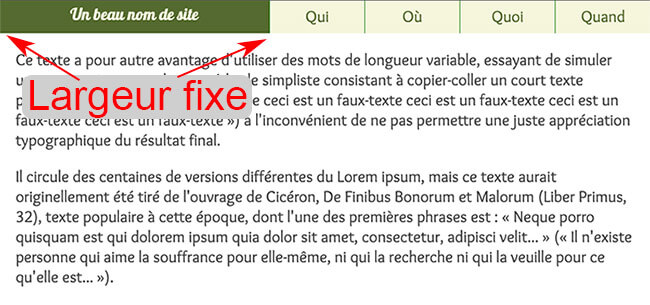
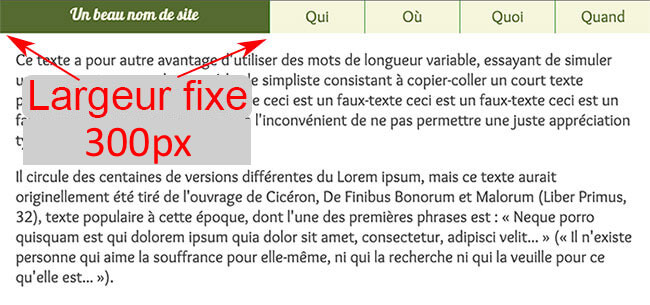
Lecon 9 - v10

Changed region(s): [[0.0308, 0.3836, 0.4, 0.5607]]

diff --git a/integration1/lecon09.html b/integration1/lecon09.html
@@ -165,13 +165,13 @@
           </div>
           <hr>
           <h3 id="defi-1">DÉFI 1 / Navigation principale fluide + premier lien à largeur fixe</h3>
-          <p>À partir du <em>pen</em> ci-dessous:</p>
+          
            <p class="codepen" data-height="300" data-default-tab="css,result" data-slug-hash="gbPXKjw" data-pen-title="c09-defi1_fixe-fluide" data-editable="true" data-user="frlacroix" style="height: 300px; box-sizing: border-box; display: flex; align-items: center; justify-content: center; border: 2px solid; margin: 1em 0; padding: 1em;">
           <span>See the Pen <a href="https://codepen.io/frlacroix/pen/gbPXKjw">
           c09-defi1_fixe-fluide</a> by Frédéric Lacroix (<a href="https://codepen.io/frlacroix">@frlacroix</a>)
           on <a href="https://codepen.io">CodePen</a>.</span>
         </p>
-          <br><ol style="margin-bottom:0; ">
+          <br><p>À partir du <em>pen</em> ci-dessus:</p><ol style="margin-bottom:0; ">
             <li>À l'aide de la requête média, faites en sorte que <strong>la largeur du lien <em>Un beau nom de site</em> soit fixe à 300px sur écran large</strong> (point de rupture >500px).</li> 
             <li>Les quatre autres liens doivent se retrouver sur la même ligne que le premier lien et conserver une largeur fluide (%).</li>
           </ol>
@@ -192,13 +192,13 @@
           
           <hr>
           <h3 id="defi-2">DÉFI 2 / Image flottante</h3>
-          <p>À partir du <em>pen ci-dessous</em>:</p>
+          
           <p class="codepen" data-height="465" data-default-tab="result" data-slug-hash="NPxwzOa" data-pen-title="Défi 2 - Image flottante" data-editable="true" data-user="frlacroix" style="height: 465px; box-sizing: border-box; display: flex; align-items: center; justify-content: center; border: 2px solid; margin: 1em 0; padding: 1em;">
             <span>See the Pen <a href="https://codepen.io/frlacroix/pen/NPxwzOa">
             Défi 2 - Image flottante</a> by Frédéric Lacroix (<a href="https://codepen.io/frlacroix">@frlacroix</a>)
             on <a href="https://codepen.io">CodePen</a>.</span>
           </p>
-          <br><ol style="margin-bottom:0; ">
+          <br><p>À partir du <em>pen ci-dessus</em>:</p><ol style="margin-bottom:0; ">
             <li>Effectuez la mise en forme de la légende en la liant graphiquement à l'image (voir exemple en classe).</li>
             <li>Donnez une <strong>couleur d'arrière-plan</strong> au contenu principal et une autre au pied de page.</li>
             <li>Le contenu principal et le contenu du pied de page doivent avoir une <strong>largeur maximale de 700px</strong>, tout en faisant en sorte que les couleurs d'arrière-plan demeurent pleine largeur.</li>
@@ -225,14 +225,14 @@
           
           <hr>
           <h3 id="defi-3">DÉFI 3 / Images réactives avec cadrages différents</h3>
-          <p>À partir du <em>pen</em> ci-dessous:</p>
+          
           <p class="codepen" data-height="375" data-default-tab="result" data-slug-hash="RNrxWxg" data-pen-title="Défi 3 - Images réactives avec cadrages différents" data-editable="true" data-user="frlacroix" style="height: 375px; box-sizing: border-box; display: flex; align-items: center; justify-content: center; border: 2px solid; margin: 1em 0; padding: 1em;">
   <span>See the Pen <a href="https://codepen.io/frlacroix/pen/RNrxWxg">
   Défi 3 - Images réactives avec cadrages différents</a> by Frédéric Lacroix (<a href="https://codepen.io/frlacroix">@frlacroix</a>)
   on <a href="https://codepen.io">CodePen</a>.</span>
 </p>
 <script async src="https://public.codepenassets.com/embed/index.js"></script><br>
-          <ol style="margin-bottom:0; ">
+          <p>À partir du <em>pen</em> ci-dessus:</p><ol style="margin-bottom:0; ">
             <li>Assurez-vous que <strong>l'image est fluide et prenne toute la largeur de la fenêtre</strong> du navigateur, mais sans déborder.</li>
             <li>Rendez <strong>l'image réactive en modifiant le balisage HTML</strong>: ajoutez une deuxième source d'image et rendez l'affichage des deux sources conditionnelle à la largeur de la fenêtre du navigateur.</li>
             <li><strong>Utilisez le seuil de 400px</strong> comme point de bascule entre les deux images.</li>
@@ -250,14 +250,14 @@
           
           <hr>
           <h3 id="defi-4">DÉFI 4 / Sous-menu superposé et centré avec flexbox</h3>
-          <p>À partir du <em>pen</em> ci-dessous:</p>
+          
           <p class="codepen" data-height="460" data-default-tab="result" data-slug-hash="bNEaVOm" data-pen-title="c09-menu-superposé-centré-départ" data-editable="true" data-user="frlacroix" style="height: 460px; box-sizing: border-box; display: flex; align-items: center; justify-content: center; border: 2px solid; margin: 1em 0; padding: 1em;">
   <span>See the Pen <a href="https://codepen.io/frlacroix/pen/bNEaVOm">
   c09-menu-superposé-centré-départ</a> by Frédéric Lacroix (<a href="https://codepen.io/frlacroix">@frlacroix</a>)
   on <a href="https://codepen.io">CodePen</a>.</span>
 </p>
 <script async src="https://public.codepenassets.com/embed/index.js"></script>
-<br>
+<br><p>À partir du <em>pen</em> ci-dessus:</p>
           <ol>
             <li>Insérez le code de l'élément picture du pen précédent (Challenge 3) avec l'image réactive complétée.</li>
             <li>Positionnez le titre principal devant la bannière
@@ -268,11 +268,11 @@
           </ol>
           <div class="row">
             <div class="col">
-              <figure class="w30">
+              <figure class="">
             <figcaption>Résultat final du Challenge 4 - Version étroite</figcaption>
             <img class="bordure" src="images/cours09/cours09_codepen-challenge04a.jpg" alt="Challenge 4.">
           </figure></div>
-            <div class="col"><figure class="w60">
+            <div class="col"><figure class="">
             <figcaption>Résultat final du Challenge 4 - Version large</figcaption>
             <img class="bordure" src="images/cours09/cours09_codepen-challenge04b.jpg" alt="Challenge 4.">
           </figure></div>
@@ -281,23 +281,32 @@
           
           <hr>
           <h3 id="defi-5">DÉFI 5 / Tableau avec mise en forme alternée et effet au survol</h3>
-          <p>À partir du <em>pen ci-dessous</em>:</p>
+          <p class="codepen" data-height="365" data-default-tab="result" data-slug-hash="dPGmeqR" data-pen-title="Défi 5 - Tableau avec mise en forme alternée et effet au survol" data-editable="true" data-user="frlacroix" style="height: 3px; box-sizing: border-box; display: flex; align-items: center; justify-content: center; border: 2px solid; margin: 1em 0; padding: 1em;">
+  <span>See the Pen <a href="https://codepen.io/frlacroix/pen/dPGmeqR">
+  Défi 5 - Tableau avec mise en forme alternée et effet au survol</a> by Frédéric Lacroix (<a href="https://codepen.io/frlacroix">@frlacroix</a>)
+  on <a href="https://codepen.io">CodePen</a>.</span>
+</p>
+<script async src="https://public.codepenassets.com/embed/index.js"></script>
+          <p>À partir du <em>pen</em> ci-dessus:</p>
           <ol>
             <li>Effectuez la mise en forme du tableau de manière à reproduire le modèle présenté en classe : caption intégré, mise en forme alternée des lignes, espacement autour du contenu des cellules, alignement des prix à droite.</li> 
             <li>Créez un effet au survol du curseur : modification de la couleur d'arrière-plan d'une ligne de tableau.</li>
           </ol>
-          <div class="bloc-codepen">
-            <div class="cp_embed_wrapper"><iframe allowfullscreen="true" allowpaymentrequest="true" allowtransparency="true" class="cp_embed_iframe " frameborder="0" height="365" width="100%" name="cp_embed_5" scrolling="no" src="images/cours09/xxxXMqV.html" style="width: 100%; overflow:hidden; display:block;" title="c09-tableau_pseudoclasse-départ" loading="lazy" id="cp_embed_xxxXMqV"></iframe></div>
-            <script async="" src="images/cours09/ei.js"></script>
-          </div>
-          <figure class="w50">
-            <figcaption>Résultat final du Challenge 5 - Mise en forme du tableau</figcaption>
+         
+          <div class="row">
+            <div class="col">
+              <figure class="">
+            <figcaption>Résultat final du Challenge&nbsp;5 - <br>Mise en forme du&nbsp;tableau</figcaption>
             <img class="bordure" src="images/cours09/cours09_codepen-challenge05a.jpg" alt="Challenge 5.">
           </figure>
-          <figure class="w50">
-            <figcaption>Résultat final du Challenge 5 - Effet au survol d'une ligne de tableau</figcaption>
+          </div>
+          <div class="col">
+          <figure class="">
+            <figcaption>Résultat final du Challenge&nbsp;5 - <br>Effet au survol d'une ligne de&nbsp;tableau</figcaption>
             <img class="bordure" src="images/cours09/cours09_codepen-challenge05b.jpg" alt="Challenge 5.">
           </figure>
+          </div>
+          </div>
           <hr>
           <h3 id="defi-6">DÉFI 6 / Utiliser un <i>sprite</i> css pour augmenter l'efficacité de chargement d'une page web</h3>
           <p>Faites en sorte que les images du menu de réseaux sociaux correspondent aux quatre réseaux différents, à la fois au repos et au survol.</p>
